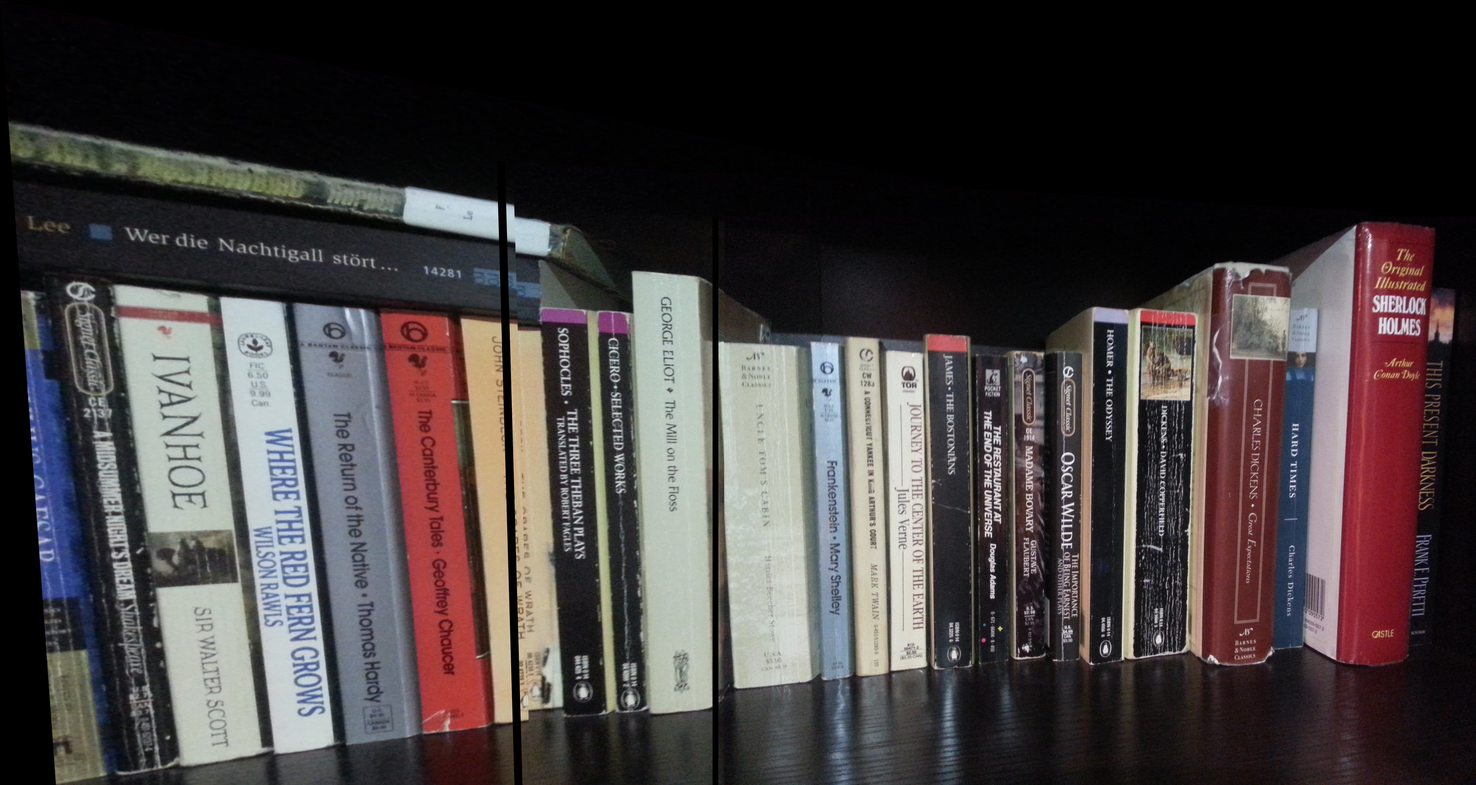
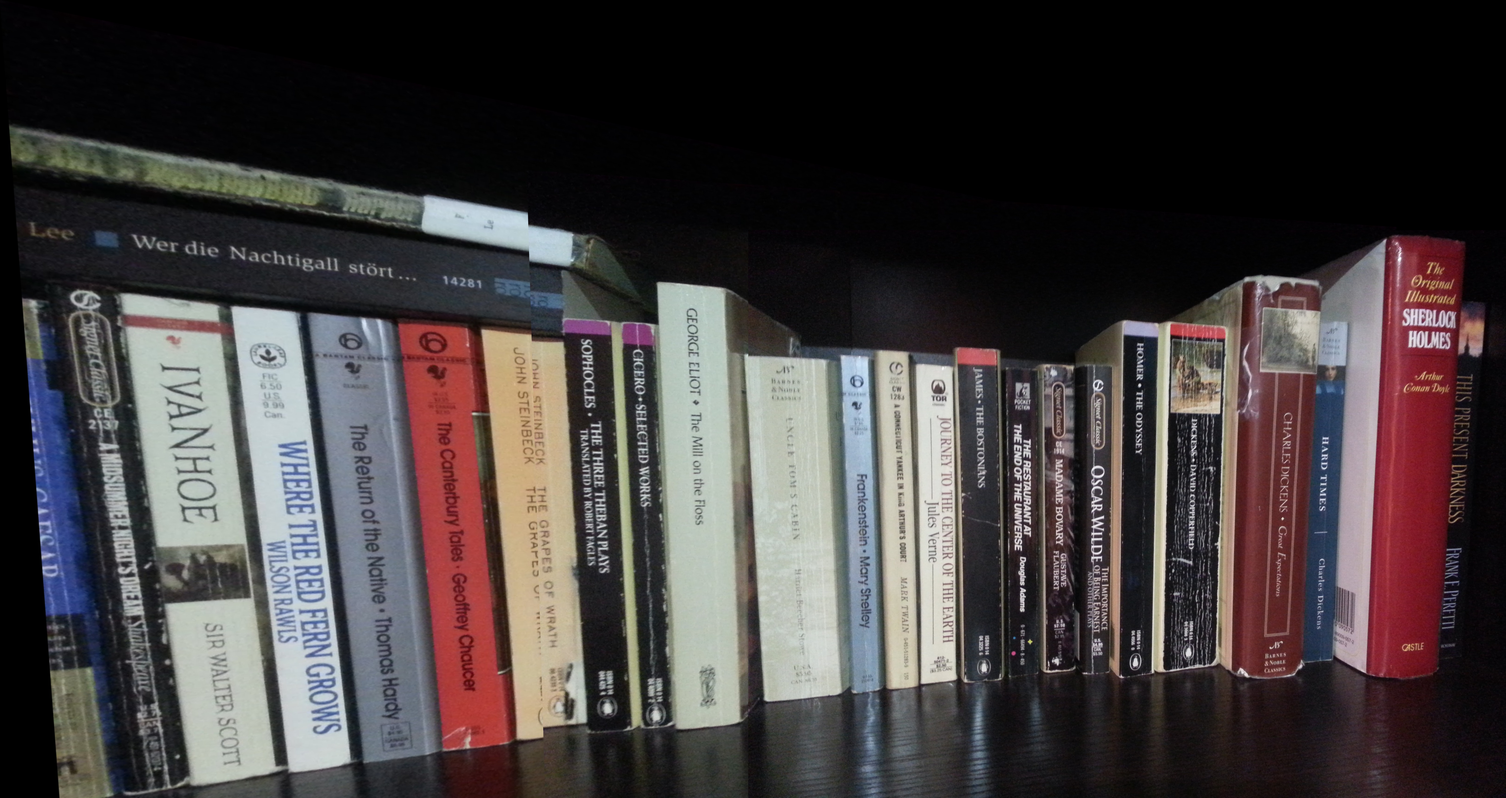
CP A8 final code submission
I still don't know about the blending, but I think it is enough for credit

Changed region(s): [[0.0, 0.1553, 0.9964, 1.0], [0.0311, 0.2795, 0.2491, 0.3416]]

diff --git a/CompPhoto/Assignments/Assignment8/assignment8/assignment8.py b/CompPhoto/Assignments/Assignment8/assignment8/assignment8.py
@@ -221,52 +221,23 @@ def blendImagePair(warped_image, image_2, point):
     Returns:
         image: The warped image with image_2 blended into it.
     """
+    # Copy entire image
     output_image = np.copy(warped_image)
-
-    '''
-    # Find the points along the intersection of the two images
-    blend_region = 50
-    intersect_l = warped_image[point[1]:point[1]+image_2.shape[0], point[0]-blend_region:point[0]+blend_region]
-    # We need to make image_2 overlap with the warped image. Take a portion of the warped image as image 2
-    intersect_r = np.zeros( (image_2.shape[0], 2*blend_region, 3) )
-    intersect_r[:,0:blend_region] = warped_image[point[1]:point[1]+image_2.shape[0], point[0]-blend_region:point[0]]
-    intersect_r[:,blend_region:]= image_2[:,0:blend_region]
-    mask = np.zeros( (image_2.shape[0], 2*blend_region) )
-    mask[:,0:blend_region] = np.ones( (mask.shape[0], blend_region) )
     
-    # Blend
-    blend_img = run_blend(intersect_l, intersect_r, mask)
-    cv2.imwrite("test.png", blend_img)
-    # Combine
-    output_image[point[1]:point[1]+image_2.shape[0], point[0]-blend_region:point[0]+blend_region] = blend_img
-    output_image[ point[1]:point[1]+image_2.shape[0], point[0]+blend_region:] = image_2[:,blend_region:]
-    '''
-    '''
-    extend = 25
-    temp_image = np.zeros( (image_2.shape[0], image_2.shape[1]+extend, 3) )
-    temp_image[:,0:extend] = output_image[point[1]:point[1]+image_2.shape[0],point[0]-extend:point[0]]
-    temp_image[:,extend:] = image_2
-    
-    mask = np.zeros( (temp_image.shape[0], temp_image.shape[1]) )
-    mask[:,0:extend] = np.ones( (temp_image.shape[0],extend) )
-    
-    blend_image = run_blend(temp_image, temp_image, mask)
-    cv2.imwrite('test.png', blend_image)
-    
-    output_image[point[1]:point[1]+image_2.shape[0], point[0]-extend:] = blend_image
-    '''
+    # Take a small region around where the images meet as the region to blend
     blend_region = 25
     left = output_image[point[1]:point[1]+image_2.shape[0], point[0]-blend_region:point[0]+blend_region]
+    # The right image will have some black region associated with it
     right = np.zeros( left.shape )
     right[:,blend_region:] = image_2[:,0:blend_region]
+    # The mask is split along the middle
     mask = np.zeros( (left.shape[0], left.shape[1]) )
-    mask[:,0:blend_region] = np.ones( (left.shape[0], blend_region) )
-    
+    mask[:,blend_region:] = np.ones( (left.shape[0], blend_region) )
+    # Blend image
     blend_img = run_blend(left, right, mask)
-    
+    # Put blended image with the output image
     output_image[point[1]:point[1]+image_2.shape[0], point[0]-blend_region:point[0]+blend_region] = blend_img
-    output_image[ point[1]:point[1]+image_2.shape[0], point[0]+blend_region:] = image_2[:,blend_region:]
-    
+    output_image[ point[1]:point[1]+image_2.shape[0], point[0]+blend_region:] = image_2[:,blend_region:]  
     
     return output_image
     # END OF FUNCTION
